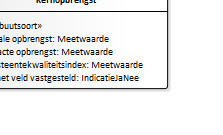
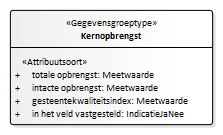
Conceptualmodel-ToegepastgeologischbooronderzoekBHR-AGconceptueel-0.1-1-20210310-20210314-214736

Changed region(s): [[0.0, 0.0, 0.9686, 0.9481], [0.1345, 0.8, 0.8341, 0.8889], [0.296, 0.1481, 0.6996, 0.2074]]

diff --git a/data/BHR-AG-cat.msword.html b/data/BHR-AG-cat.msword.html
@@ -15,7 +15,7 @@
    <body>
       <p>Conceptual model/Toegepast geologisch booronderzoek (BHR-AG) conceptueel/20210310</p>
       <p>Imvertor: 1.63.0</p>
-      <p>Model release: Conceptualmodel-ToegepastgeologischbooronderzoekBHR-AGconceptueel-0.1-1-20210310-20210314-213559</p>
+      <p>Model release: Conceptualmodel-ToegepastgeologischbooronderzoekBHR-AGconceptueel-0.1-1-20210310-20210314-214736</p>
       <hr>
       <section>
          <h1>Artikel 1 Definitie van registratieobject, entiteiten en attributen</h1>
@@ -769,7 +769,7 @@
                            </tr>
                         </tbody>
                      </table>
-                     </section><a class="anchor" id="detail_d150085e3279"></a><section id="detail_d150085e3279">
+                     </section><a class="anchor" id="detail_d150039e3279"></a><section id="detail_d150039e3279">
                      <h4>  registratiegeschiedenis</h4>
                      <table style="width: 100%;">
                         <colgroup style="width: 30%;"></colgroup>
@@ -803,7 +803,7 @@
                            </tr>
                         </tbody>
                      </table>
-                  </section><a class="anchor" id="detail_d150085e3446"></a><section id="detail_d150085e3446">
+                  </section><a class="anchor" id="detail_d150039e3446"></a><section id="detail_d150039e3446">
                      <h4>  rapportagegeschiedenis</h4>
                      <table style="width: 100%;">
                         <colgroup style="width: 30%;"></colgroup>
@@ -837,7 +837,7 @@
                            </tr>
                         </tbody>
                      </table>
-                  </section><a class="anchor" id="detail_d150085e3632"></a><section id="detail_d150085e3632">
+                  </section><a class="anchor" id="detail_d150039e3632"></a><section id="detail_d150039e3632">
                      <h4>  aangeleverde locatie</h4>
                      <table style="width: 100%;">
                         <colgroup style="width: 30%;"></colgroup>
@@ -871,7 +871,7 @@
                            </tr>
                         </tbody>
                      </table>
-                  </section><a class="anchor" id="detail_d150085e3817"></a><section id="detail_d150085e3817">
+                  </section><a class="anchor" id="detail_d150039e3817"></a><section id="detail_d150039e3817">
                      <h4>  aangeleverde verticale positie</h4>
                      <table style="width: 100%;">
                         <colgroup style="width: 30%;"></colgroup>
@@ -905,7 +905,7 @@
                            </tr>
                         </tbody>
                      </table>
-                  </section><a class="anchor" id="detail_d150085e4002"></a><section id="detail_d150085e4002">
+                  </section><a class="anchor" id="detail_d150039e4002"></a><section id="detail_d150039e4002">
                      <h4>  gestandaardiseerde locatie</h4>
                      <table style="width: 100%;">
                         <colgroup style="width: 30%;"></colgroup>
@@ -939,7 +939,7 @@
                            </tr>
                         </tbody>
                      </table>
-                  </section><a class="anchor" id="detail_d150085e4187"></a><section id="detail_d150085e4187">
+                  </section><a class="anchor" id="detail_d150039e4187"></a><section id="detail_d150039e4187">
                      <h4>  terreintoestand</h4>
                      <table style="width: 100%;">
                         <colgroup style="width: 30%;"></colgroup>
@@ -1879,7 +1879,7 @@
                            </tr>
                         </tbody>
                      </table>
-                     </section><a class="anchor" id="detail_d150085e7107"></a><section id="detail_d150085e7107">
+                     </section><a class="anchor" id="detail_d150039e7107"></a><section id="detail_d150039e7107">
                      <h4>  tussentijdse gebeurtenis</h4>
                      <table style="width: 100%;">
                         <colgroup style="width: 30%;"></colgroup>
@@ -3164,7 +3164,7 @@
                      </section>
                </section><a class="anchor" id="graph_EAID_39DA8E6A_0EF3_47fd_844E_6FE320BFA4C3"></a><a class="anchor" id="global_class_Model_Boring"></a><section id="global_class_Model_Boring">
                   <h3>   Boring</h3>
-                  <div class="imageinfo "><img src="Images/EAID_0286C079_BAEA_4c5f_BFFE_A38CAEB202AB.png" usemap="#imagemap-EAID_0286C079_BAEA_4c5f_BFFE_A38CAEB202AB" alt="Diagram "><map name="imagemap-EAID_0286C079_BAEA_4c5f_BFFE_A38CAEB202AB"><area shape="rect" alt="Afgewerkt interval" coords="460,320,630,370" href="#graph_EAID_D708726D_D9BD_48e2_B9E7_E30E34986E8D"><area shape="rect" alt="Bemonsterd interval" coords="460,160,630,210" href="#graph_EAID_942B7F57_4285_46e2_866F_EDB4185826DB"><area shape="rect" alt="Boorsnelheid" coords="70,440,210,480" href="#graph_EAID_1CB0936F_94C8_4cfd_939F_06B344530E5D"><area shape="rect" alt="Geboord interval" coords="460,80,630,130" href="#graph_EAID_4701F363_88BB_41b6_B361_392BA77EB93D"><area shape="rect" alt="Weggegraven laag" coords="460,10,630,60" href="#graph_EAID_833E1A20_D927_46d1_8394_84DCDEEFA572"><area shape="rect" alt="Verontreinigd interval" coords="460,240,630,290" href="#graph_EAID_5DA10DC9_4546_4ef1_8AFD_DCA97C43EAEA"><area shape="rect" alt="Boring" coords="10,10,291,376" href="#graph_EAID_39DA8E6A_0EF3_47fd_844E_6FE320BFA4C3"></map><p><b></b></p>
+                  <div class="imageinfo "><img src="Images/EAID_0286C079_BAEA_4c5f_BFFE_A38CAEB202AB.png" usemap="#imagemap-EAID_0286C079_BAEA_4c5f_BFFE_A38CAEB202AB" alt="Diagram "><map name="imagemap-EAID_0286C079_BAEA_4c5f_BFFE_A38CAEB202AB"><area shape="rect" alt="Afgewerkt interval" coords="460,320,630,370" href="#graph_EAID_D708726D_D9BD_48e2_B9E7_E30E34986E8D"><area shape="rect" alt="Bemonsterd interval" coords="460,160,630,210" href="#graph_EAID_942B7F57_4285_46e2_866F_EDB4185826DB"><area shape="rect" alt="Boorsnelheid" coords="460,418,600,458" href="#graph_EAID_1CB0936F_94C8_4cfd_939F_06B344530E5D"><area shape="rect" alt="Geboord interval" coords="460,80,630,130" href="#graph_EAID_4701F363_88BB_41b6_B361_392BA77EB93D"><area shape="rect" alt="Weggegraven laag" coords="460,10,630,60" href="#graph_EAID_833E1A20_D927_46d1_8394_84DCDEEFA572"><area shape="rect" alt="Verontreinigd interval" coords="460,240,630,290" href="#graph_EAID_5DA10DC9_4546_4ef1_8AFD_DCA97C43EAEA"><area shape="rect" alt="Boring" coords="10,10,291,376" href="#graph_EAID_39DA8E6A_0EF3_47fd_844E_6FE320BFA4C3"></map><p><b></b></p>
                   </div>
                   <table style="width: 100%;">
                      <colgroup style="width: 30%;"></colgroup>
@@ -4282,7 +4282,7 @@
                            </tr>
                         </tbody>
                      </table>
-                     </section><a class="anchor" id="detail_d150085e16895"></a><section id="detail_d150085e16895">
+                     </section><a class="anchor" id="detail_d150039e16895"></a><section id="detail_d150039e16895">
                      <h4>  boorsnelheid</h4>
                      <table style="width: 100%;">
                         <colgroup style="width: 30%;"></colgroup>
@@ -5445,7 +5445,7 @@
                            </tr>
                         </tbody>
                      </table>
-                     </section><a class="anchor" id="detail_d150085e20484"></a><section id="detail_d150085e20484">
+                     </section><a class="anchor" id="detail_d150039e20484"></a><section id="detail_d150039e20484">
                      <h4>  bemonsteringsapparaat</h4>
                      <table style="width: 100%;">
                         <colgroup style="width: 30%;"></colgroup>
@@ -5478,7 +5478,7 @@
                            </tr>
                         </tbody>
                      </table>
-                  </section><a class="anchor" id="detail_d150085e20669"></a><section id="detail_d150085e20669">
+                  </section><a class="anchor" id="detail_d150039e20669"></a><section id="detail_d150039e20669">
                      <h4>  kernopbrengst</h4>
                      <table style="width: 100%;">
                         <colgroup style="width: 30%;"></colgroup>
@@ -6125,7 +6125,7 @@
                      </section>
                </section><a class="anchor" id="graph_EAID_1EC39998_E049_4f4e_A556_9CC713664B66"></a><a class="anchor" id="global_class_Model_Kernopbrengst"></a><section id="global_class_Model_Kernopbrengst">
                   <h3>   Kernopbrengst</h3>
-                  <div class="imageinfo "><img src="Images/EAID_2D06DDE5_8A9D_404f_B480_8C7BDB2C0F0F.png" usemap="#imagemap-EAID_2D06DDE5_8A9D_404f_B480_8C7BDB2C0F0F" alt="Diagram "><map name="imagemap-EAID_2D06DDE5_8A9D_404f_B480_8C7BDB2C0F0F"><area shape="rect" alt="Kernopbrengst" coords="-35,-26,168,89" href="#graph_EAID_1EC39998_E049_4f4e_A556_9CC713664B66"></map><p><b></b></p>
+                  <div class="imageinfo "><img src="Images/EAID_2D06DDE5_8A9D_404f_B480_8C7BDB2C0F0F.png" usemap="#imagemap-EAID_2D06DDE5_8A9D_404f_B480_8C7BDB2C0F0F" alt="Diagram "><map name="imagemap-EAID_2D06DDE5_8A9D_404f_B480_8C7BDB2C0F0F"><area shape="rect" alt="Kernopbrengst" coords="10,10,213,125" href="#graph_EAID_1EC39998_E049_4f4e_A556_9CC713664B66"></map><p><b></b></p>
                   </div>
                   <table style="width: 100%;">
                      <colgroup style="width: 30%;"></colgroup>
@@ -8469,7 +8469,7 @@
                            </tr>
                         </tbody>
                      </table>
-                     </section><a class="anchor" id="detail_d150085e31761"></a><section id="detail_d150085e31761">
+                     </section><a class="anchor" id="detail_d150039e31761"></a><section id="detail_d150039e31761">
                      <h4>  bijzonder materiaal</h4>
                      <table style="width: 100%;">
                         <colgroup style="width: 30%;"></colgroup>
@@ -8503,7 +8503,7 @@
                            </tr>
                         </tbody>
                      </table>
-                  </section><a class="anchor" id="detail_d150085e31945"></a><section id="detail_d150085e31945">
+                  </section><a class="anchor" id="detail_d150039e31945"></a><section id="detail_d150039e31945">
                      <h4>  grond</h4>
                      <table style="width: 100%;">
                         <colgroup style="width: 30%;"></colgroup>
@@ -8536,7 +8536,7 @@
                            </tr>
                         </tbody>
                      </table>
-                  </section><a class="anchor" id="detail_d150085e32129"></a><section id="detail_d150085e32129">
+                  </section><a class="anchor" id="detail_d150039e32129"></a><section id="detail_d150039e32129">
                      <h4>  gesteente</h4>
                      <table style="width: 100%;">
                         <colgroup style="width: 30%;"></colgroup>
@@ -9644,7 +9644,7 @@
                            </tr>
                         </tbody>
                      </table>
-                     </section><a class="anchor" id="detail_d150085e36233"></a><section id="detail_d150085e36233">
+                     </section><a class="anchor" id="detail_d150039e36233"></a><section id="detail_d150039e36233">
                      <h4>  bijzonder bestanddeel</h4>
                      <table style="width: 100%;">
                         <colgroup style="width: 30%;"></colgroup>
@@ -9679,7 +9679,7 @@
                            </tr>
                         </tbody>
                      </table>
-                  </section><a class="anchor" id="detail_d150085e36399"></a><section id="detail_d150085e36399">
+                  </section><a class="anchor" id="detail_d150039e36399"></a><section id="detail_d150039e36399">
                      <h4>  brokje</h4>
                      <table style="width: 100%;">
                         <colgroup style="width: 30%;"></colgroup>
@@ -9712,7 +9712,7 @@
                            </tr>
                         </tbody>
                      </table>
-                  </section><a class="anchor" id="detail_d150085e36565"></a><section id="detail_d150085e36565">
+                  </section><a class="anchor" id="detail_d150039e36565"></a><section id="detail_d150039e36565">
                      <h4>  vlek</h4>
                      <table style="width: 100%;">
                         <colgroup style="width: 30%;"></colgroup>
@@ -9745,7 +9745,7 @@
                            </tr>
                         </tbody>
                      </table>
-                  </section><a class="anchor" id="detail_d150085e36731"></a><section id="detail_d150085e36731">
+                  </section><a class="anchor" id="detail_d150039e36731"></a><section id="detail_d150039e36731">
                      <h4>  korrelvorm</h4>
                      <table style="width: 100%;">
                         <colgroup style="width: 30%;"></colgroup>
@@ -10894,7 +10894,7 @@
                            </tr>
                         </tbody>
                      </table>
-                     </section><a class="anchor" id="detail_d150085e40746"></a><section id="detail_d150085e40746">
+                     </section><a class="anchor" id="detail_d150039e40746"></a><section id="detail_d150039e40746">
                      <h4>  brokje in gesteente</h4>
                      <table style="width: 100%;">
                         <colgroup style="width: 30%;"></colgroup>

diff --git a/data/BHR-AG-cat.respec.html b/data/BHR-AG-cat.respec.html
@@ -745,7 +745,7 @@
                   </tr>
                </tbody>
             </table>
-            </section><a class="anchor" id="detail_d150085e3279"></a><section id="detail_d150085e3279">
+            </section><a class="anchor" id="detail_d150039e3279"></a><section id="detail_d150039e3279">
             <h4>  registratiegeschiedenis</h4>
             <table style="width: 100%;">
                <colgroup style="width: 30%;"></colgroup>
@@ -779,7 +779,7 @@
                   </tr>
                </tbody>
             </table>
-         </section><a class="anchor" id="detail_d150085e3446"></a><section id="detail_d150085e3446">
+         </section><a class="anchor" id="detail_d150039e3446"></a><section id="detail_d150039e3446">
             <h4>  rapportagegeschiedenis</h4>
             <table style="width: 100%;">
                <colgroup style="width: 30%;"></colgroup>
@@ -813,7 +813,7 @@
                   </tr>
                </tbody>
             </table>
-         </section><a class="anchor" id="detail_d150085e3632"></a><section id="detail_d150085e3632">
+         </section><a class="anchor" id="detail_d150039e3632"></a><section id="detail_d150039e3632">
             <h4>  aangeleverde locatie</h4>
             <table style="width: 100%;">
                <colgroup style="width: 30%;"></colgroup>
@@ -847,7 +847,7 @@
                   </tr>
                </tbody>
             </table>
-         </section><a class="anchor" id="detail_d150085e3817"></a><section id="detail_d150085e3817">
+         </section><a class="anchor" id="detail_d150039e3817"></a><section id="detail_d150039e3817">
             <h4>  aangeleverde verticale positie</h4>
             <table style="width: 100%;">
                <colgroup style="width: 30%;"></colgroup>
@@ -881,7 +881,7 @@
                   </tr>
                </tbody>
             </table>
-         </section><a class="anchor" id="detail_d150085e4002"></a><section id="detail_d150085e4002">
+         </section><a class="anchor" id="detail_d150039e4002"></a><section id="detail_d150039e4002">
             <h4>  gestandaardiseerde locatie</h4>
             <table style="width: 100%;">
                <colgroup style="width: 30%;"></colgroup>
@@ -915,7 +915,7 @@
                   </tr>
                </tbody>
             </table>
-         </section><a class="anchor" id="detail_d150085e4187"></a><section id="detail_d150085e4187">
+         </section><a class="anchor" id="detail_d150039e4187"></a><section id="detail_d150039e4187">
             <h4>  terreintoestand</h4>
             <table style="width: 100%;">
                <colgroup style="width: 30%;"></colgroup>
@@ -1855,7 +1855,7 @@
                   </tr>
                </tbody>
             </table>
-            </section><a class="anchor" id="detail_d150085e7107"></a><section id="detail_d150085e7107">
+            </section><a class="anchor" id="detail_d150039e7107"></a><section id="detail_d150039e7107">
             <h4>  tussentijdse gebeurtenis</h4>
             <table style="width: 100%;">
                <colgroup style="width: 30%;"></colgroup>
@@ -3140,7 +3140,7 @@
             </section>
       </section><a class="anchor" id="graph_EAID_39DA8E6A_0EF3_47fd_844E_6FE320BFA4C3"></a><a class="anchor" id="global_class_Model_Boring"></a><section id="global_class_Model_Boring">
          <h3>   Boring</h3>
-         <div class="imageinfo "><img src="data/Images/EAID_0286C079_BAEA_4c5f_BFFE_A38CAEB202AB.png" usemap="#imagemap-EAID_0286C079_BAEA_4c5f_BFFE_A38CAEB202AB" alt="Diagram "><map name="imagemap-EAID_0286C079_BAEA_4c5f_BFFE_A38CAEB202AB"><area shape="rect" alt="Afgewerkt interval" coords="460,320,630,370" href="#graph_EAID_D708726D_D9BD_48e2_B9E7_E30E34986E8D"><area shape="rect" alt="Bemonsterd interval" coords="460,160,630,210" href="#graph_EAID_942B7F57_4285_46e2_866F_EDB4185826DB"><area shape="rect" alt="Boorsnelheid" coords="70,440,210,480" href="#graph_EAID_1CB0936F_94C8_4cfd_939F_06B344530E5D"><area shape="rect" alt="Geboord interval" coords="460,80,630,130" href="#graph_EAID_4701F363_88BB_41b6_B361_392BA77EB93D"><area shape="rect" alt="Weggegraven laag" coords="460,10,630,60" href="#graph_EAID_833E1A20_D927_46d1_8394_84DCDEEFA572"><area shape="rect" alt="Verontreinigd interval" coords="460,240,630,290" href="#graph_EAID_5DA10DC9_4546_4ef1_8AFD_DCA97C43EAEA"><area shape="rect" alt="Boring" coords="10,10,291,376" href="#graph_EAID_39DA8E6A_0EF3_47fd_844E_6FE320BFA4C3"></map><p><b></b></p>
+         <div class="imageinfo "><img src="data/Images/EAID_0286C079_BAEA_4c5f_BFFE_A38CAEB202AB.png" usemap="#imagemap-EAID_0286C079_BAEA_4c5f_BFFE_A38CAEB202AB" alt="Diagram "><map name="imagemap-EAID_0286C079_BAEA_4c5f_BFFE_A38CAEB202AB"><area shape="rect" alt="Afgewerkt interval" coords="460,320,630,370" href="#graph_EAID_D708726D_D9BD_48e2_B9E7_E30E34986E8D"><area shape="rect" alt="Bemonsterd interval" coords="460,160,630,210" href="#graph_EAID_942B7F57_4285_46e2_866F_EDB4185826DB"><area shape="rect" alt="Boorsnelheid" coords="460,418,600,458" href="#graph_EAID_1CB0936F_94C8_4cfd_939F_06B344530E5D"><area shape="rect" alt="Geboord interval" coords="460,80,630,130" href="#graph_EAID_4701F363_88BB_41b6_B361_392BA77EB93D"><area shape="rect" alt="Weggegraven laag" coords="460,10,630,60" href="#graph_EAID_833E1A20_D927_46d1_8394_84DCDEEFA572"><area shape="rect" alt="Verontreinigd interval" coords="460,240,630,290" href="#graph_EAID_5DA10DC9_4546_4ef1_8AFD_DCA97C43EAEA"><area shape="rect" alt="Boring" coords="10,10,291,376" href="#graph_EAID_39DA8E6A_0EF3_47fd_844E_6FE320BFA4C3"></map><p><b></b></p>
          </div>
          <table style="width: 100%;">
             <colgroup style="width: 30%;"></colgroup>
@@ -4258,7 +4258,7 @@
                   </tr>
                </tbody>
             </table>
-            </section><a class="anchor" id="detail_d150085e16895"></a><section id="detail_d150085e16895">
+            </section><a class="anchor" id="detail_d150039e16895"></a><section id="detail_d150039e16895">
             <h4>  boorsnelheid</h4>
             <table style="width: 100%;">
                <colgroup style="width: 30%;"></colgroup>
@@ -5421,7 +5421,7 @@
                   </tr>
                </tbody>
             </table>
-            </section><a class="anchor" id="detail_d150085e20484"></a><section id="detail_d150085e20484">
+            </section><a class="anchor" id="detail_d150039e20484"></a><section id="detail_d150039e20484">
             <h4>  bemonsteringsapparaat</h4>
             <table style="width: 100%;">
                <colgroup style="width: 30%;"></colgroup>
@@ -5454,7 +5454,7 @@
                   </tr>
                </tbody>
             </table>
-         </section><a class="anchor" id="detail_d150085e20669"></a><section id="detail_d150085e20669">
+         </section><a class="anchor" id="detail_d150039e20669"></a><section id="detail_d150039e20669">
             <h4>  kernopbrengst</h4>
             <table style="width: 100%;">
                <colgroup style="width: 30%;"></colgroup>
@@ -6101,7 +6101,7 @@
             </section>
       </section><a class="anchor" id="graph_EAID_1EC39998_E049_4f4e_A556_9CC713664B66"></a><a class="anchor" id="global_class_Model_Kernopbrengst"></a><section id="global_class_Model_Kernopbrengst">
          <h3>   Kernopbrengst</h3>
-         <div class="imageinfo "><img src="data/Images/EAID_2D06DDE5_8A9D_404f_B480_8C7BDB2C0F0F.png" usemap="#imagemap-EAID_2D06DDE5_8A9D_404f_B480_8C7BDB2C0F0F" alt="Diagram "><map name="imagemap-EAID_2D06DDE5_8A9D_404f_B480_8C7BDB2C0F0F"><area shape="rect" alt="Kernopbrengst" coords="-35,-26,168,89" href="#graph_EAID_1EC39998_E049_4f4e_A556_9CC713664B66"></map><p><b></b></p>
+         <div class="imageinfo "><img src="data/Images/EAID_2D06DDE5_8A9D_404f_B480_8C7BDB2C0F0F.png" usemap="#imagemap-EAID_2D06DDE5_8A9D_404f_B480_8C7BDB2C0F0F" alt="Diagram "><map name="imagemap-EAID_2D06DDE5_8A9D_404f_B480_8C7BDB2C0F0F"><area shape="rect" alt="Kernopbrengst" coords="10,10,213,125" href="#graph_EAID_1EC39998_E049_4f4e_A556_9CC713664B66"></map><p><b></b></p>
          </div>
          <table style="width: 100%;">
             <colgroup style="width: 30%;"></colgroup>
@@ -8445,7 +8445,7 @@
                   </tr>
                </tbody>
             </table>
-            </section><a class="anchor" id="detail_d150085e31761"></a><section id="detail_d150085e31761">
+            </section><a class="anchor" id="detail_d150039e31761"></a><section id="detail_d150039e31761">
             <h4>  bijzonder materiaal</h4>
             <table style="width: 100%;">
                <colgroup style="width: 30%;"></colgroup>
@@ -8479,7 +8479,7 @@
                   </tr>
                </tbody>
             </table>
-         </section><a class="anchor" id="detail_d150085e31945"></a><section id="detail_d150085e31945">
+         </section><a class="anchor" id="detail_d150039e31945"></a><section id="detail_d150039e31945">
             <h4>  grond</h4>
             <table style="width: 100%;">
                <colgroup style="width: 30%;"></colgroup>
@@ -8512,7 +8512,7 @@
                   </tr>
                </tbody>
             </table>
-         </section><a class="anchor" id="detail_d150085e32129"></a><section id="detail_d150085e32129">
+         </section><a class="anchor" id="detail_d150039e32129"></a><section id="detail_d150039e32129">
             <h4>  gesteente</h4>
             <table style="width: 100%;">
                <colgroup style="width: 30%;"></colgroup>
@@ -9620,7 +9620,7 @@
                   </tr>
                </tbody>
             </table>
-            </section><a class="anchor" id="detail_d150085e36233"></a><section id="detail_d150085e36233">
+            </section><a class="anchor" id="detail_d150039e36233"></a><section id="detail_d150039e36233">
             <h4>  bijzonder bestanddeel</h4>
             <table style="width: 100%;">
                <colgroup style="width: 30%;"></colgroup>
@@ -9655,7 +9655,7 @@
                   </tr>
                </tbody>
             </table>
-         </section><a class="anchor" id="detail_d150085e36399"></a><section id="detail_d150085e36399">
+         </section><a class="anchor" id="detail_d150039e36399"></a><section id="detail_d150039e36399">
             <h4>  brokje</h4>
             <table style="width: 100%;">
                <colgroup style="width: 30%;"></colgroup>
@@ -9688,7 +9688,7 @@
                   </tr>
                </tbody>
             </table>
-         </section><a class="anchor" id="detail_d150085e36565"></a><section id="detail_d150085e36565">
+         </section><a class="anchor" id="detail_d150039e36565"></a><section id="detail_d150039e36565">
             <h4>  vlek</h4>
             <table style="width: 100%;">
                <colgroup style="width: 30%;"></colgroup>
@@ -9721,7 +9721,7 @@
                   </tr>
                </tbody>
             </table>
-         </section><a class="anchor" id="detail_d150085e36731"></a><section id="detail_d150085e36731">
+         </section><a class="anchor" id="detail_d150039e36731"></a><section id="detail_d150039e36731">
             <h4>  korrelvorm</h4>
             <table style="width: 100%;">
                <colgroup style="width: 30%;"></colgroup>
@@ -10870,7 +10870,7 @@
                   </tr>
                </tbody>
             </table>
-            </section><a class="anchor" id="detail_d150085e40746"></a><section id="detail_d150085e40746">
+            </section><a class="anchor" id="detail_d150039e40746"></a><section id="detail_d150039e40746">
             <h4>  brokje in gesteente</h4>
             <table style="width: 100%;">
                <colgroup style="width: 30%;"></colgroup>
